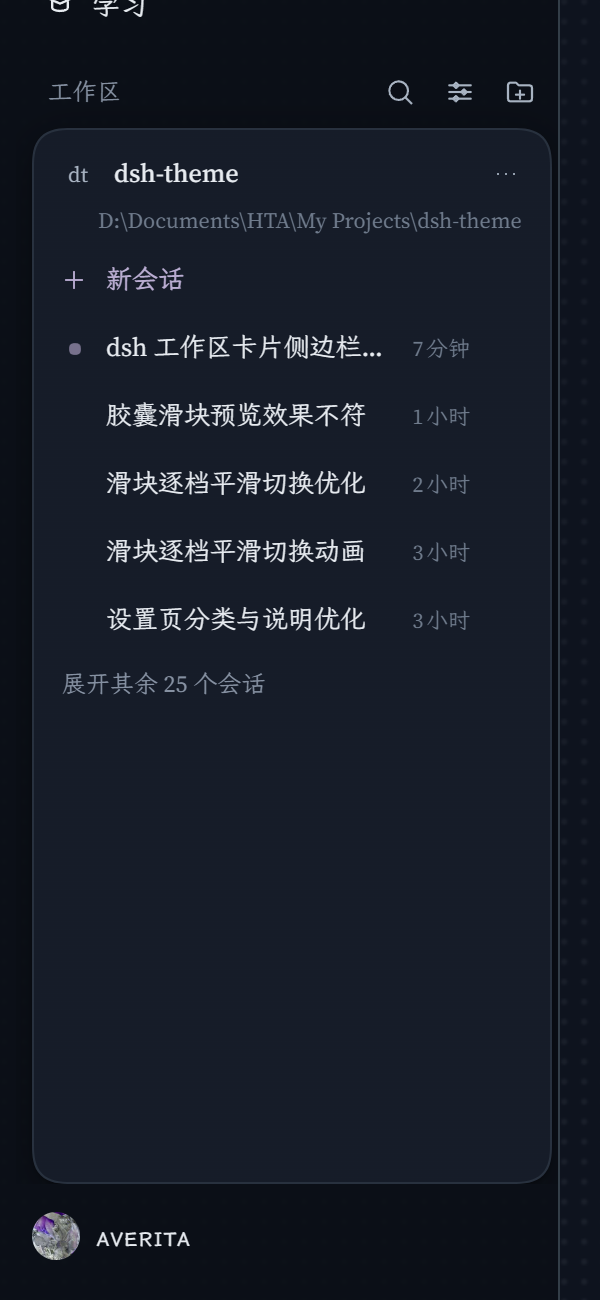
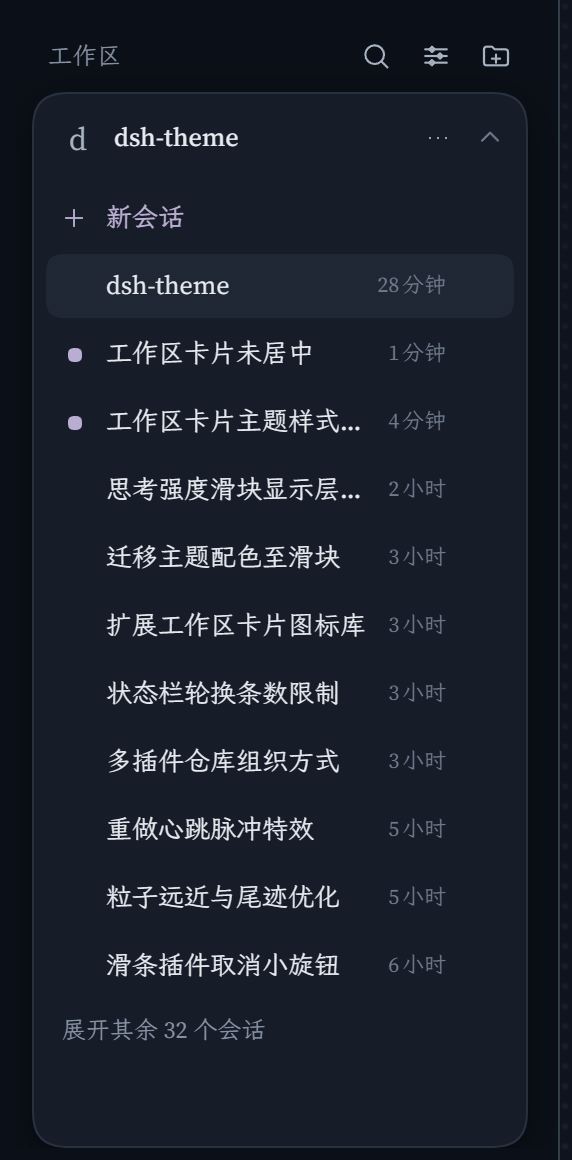
feat: 字标默认取首字母；补演示 GIF 与新截图
- 字标默认只取首字母（dsh-theme → d）；同屏撞车时才加长：
  先换两位（dsh-theme → dt），仍重复再补到三位（gaotie → gao）
- README 顶部加实机演示 GIF（docs/demo.gif）：悬停出名称、
  点卡片展开、鼠标停在标题上露出路径、点标题收回
- docs/ 的网格 / 展开 / 深色三张截图换成当前形态（正方形卡片、
  首字母、悬停名称）；深色那张用 prefers-color-scheme 模拟，没动系统设置

diff --git a/client.js b/client.js
@@ -373,43 +373,60 @@ window.__ModuleLoader__.load({
 
     /* ────────────────────────── 小工具 ────────────────────────── */
 
-    /** 两段式字标：分段取首字母（dsh-theme → dt），单段取前两个字（gaotie → ga）。 */
+    /** 字标默认只取首字母（dsh-theme → d）；同屏撞车时再扩成两位 / 三位。 */
     function monogramOf(text) {
-      const parts = String(text || '').trim().split(/[\s\-_./]+/).filter(Boolean);
+      const parts = splitTitle(text);
       if (!parts.length) return { text: '·', count: 1 };
-      const head = Array.from(parts[0]);
-      if (parts.length === 1) {
-        const chars = head.slice(0, 2).join('');
-        return { text: chars || '·', count: chars.length };
-      }
-      const second = Array.from(parts[1])[0] || '';
-      const text2 = (head[0] || '') + second;
-      return { text: text2 || '·', count: text2.length };
+      const first = Array.from(parts[0])[0] || '·';
+      return { text: first, count: 1 };
     }
 
-    /** 同一屏内撞车时把字标加长到 3 位，保证两两可辨。 */
+    function splitTitle(text) {
+      return String(text || '').trim().split(/[\s\-_./]+/).filter(Boolean);
+    }
+
+    /** 两位字标：分段取首字母（dsh-theme → dt），单段取前两个字（gaotie → ga）。 */
+    function monogramPairOf(text) {
+      const parts = splitTitle(text);
+      if (!parts.length) return '·';
+      const head = Array.from(parts[0]);
+      if (parts.length === 1) return head.slice(0, 2).join('') || '·';
+      return (head[0] || '·') + (Array.from(parts[1])[0] || '');
+    }
+
+    /** 只有撞车的字标才加长：先换两位，仍重复再补到三位。 */
     function monogramSet(titles) {
       const list = titles.map((title) => monogramOf(title));
-      const groups = new Map();
-      list.forEach((mono, index) => {
-        if (!groups.has(mono.text)) groups.set(mono.text, []);
-        groups.get(mono.text).push(index);
-      });
-      groups.forEach((indexes, text) => {
-        if (indexes.length < 2) return;
-        indexes.forEach((index) => {
-          const parts = String(titles[index] || '').trim().split(/[\s\-_./]+/).filter(Boolean);
-          let longer = text;
+      const candidates = [
+        (title) => monogramPairOf(title),
+        (title, current) => {
+          const parts = splitTitle(title);
           if (parts.length > 1) {
             const tail = Array.from(parts[parts.length - 1]);
-            longer = text + (tail[1] || tail[0] || '');
-          } else {
-            longer = Array.from(parts[0] || '').slice(0, 3).join('');
+            return current + (tail[1] || tail[0] || '');
           }
-          const chars = Array.from(longer || text);
-          list[index] = { text: chars.join(''), count: chars.length };
+          return Array.from(parts[0] || '').slice(0, 3).join('');
+        },
+      ];
+      for (const pick of candidates) {
+        const groups = new Map();
+        list.forEach((mono, index) => {
+          if (!groups.has(mono.text)) groups.set(mono.text, []);
+          groups.get(mono.text).push(index);
         });
-      });
+        let changed = false;
+        groups.forEach((indexes) => {
+          if (indexes.length < 2) return;
+          indexes.forEach((index) => {
+            const next = pick(titles[index], list[index].text);
+            if (!next || next === list[index].text) return;
+            const chars = Array.from(next);
+            list[index] = { text: chars.join(''), count: chars.length };
+            changed = true;
+          });
+        });
+        if (!changed) break;
+      }
       return list;
     }
 

diff --git a/README.md b/README.md
@@ -10,6 +10,10 @@ AveritA 的 DSH 侧栏插件：把「工作区」区换成**图标网格**；点
 | --- | --- | --- |
 | <img src="docs/grid.png" width="220" alt="网格"> | <img src="docs/panel.png" width="220" alt="展开的卡片"> | <img src="docs/dark.png" width="220" alt="深色"> |
 
+左起：网格、展开的卡片、深色下的展开卡片。下面这段是实机演示——首字母字标、悬停出名称、点卡片展开、点标题收回：
+
+<img src="docs/demo.gif" width="260" alt="演示：网格 / 悬停名称 / 展开卡片 / 收回">
+
 ## 形态
 
 - **网格**：每张卡片固定为正方形（默认 76×76），列数按栏宽与卡片大小自动排（`auto-fill`），一行排不满时整行**居中**；
@@ -148,8 +152,9 @@ html[data-dwc-api="1"] .dwc-tile-paint {
 - **未分组会话**：工作区被删后落进「未分组」的会话不显示，因为网格只遍历已登记工作区。
 - **第三方行内扩展**：替换座位后，别的插件挂在 `sidebar.session.row.*` / `sidebar.workspaces.session.*`
   上的东西不会渲染（slot 的「声明即认领」规则）。当前 profile 里没有这类插件。
-- **字标**：分段取首字母（`dsh-theme` → `dt`），单段取前两个字（`gaotie` → `ga`）；
-  同屏撞车时自动加长到 3 位（`gaotie` → `gao`，`gonglingzhishou-aii` → `gai`）。
+- **字标**：默认只取首字母（`dsh-theme` → `d`）；同屏撞车时才加长——
+  两位按「分段取首字母 / 单段取前两字」（`dsh-theme` → `dt`，`gaotie` → `ga`），
+  仍重复再补到三位（`gaotie` → `gao`，`gonglingzhishou-aii` → `gai`）。
 
 ## 安装 / 卸载
 
